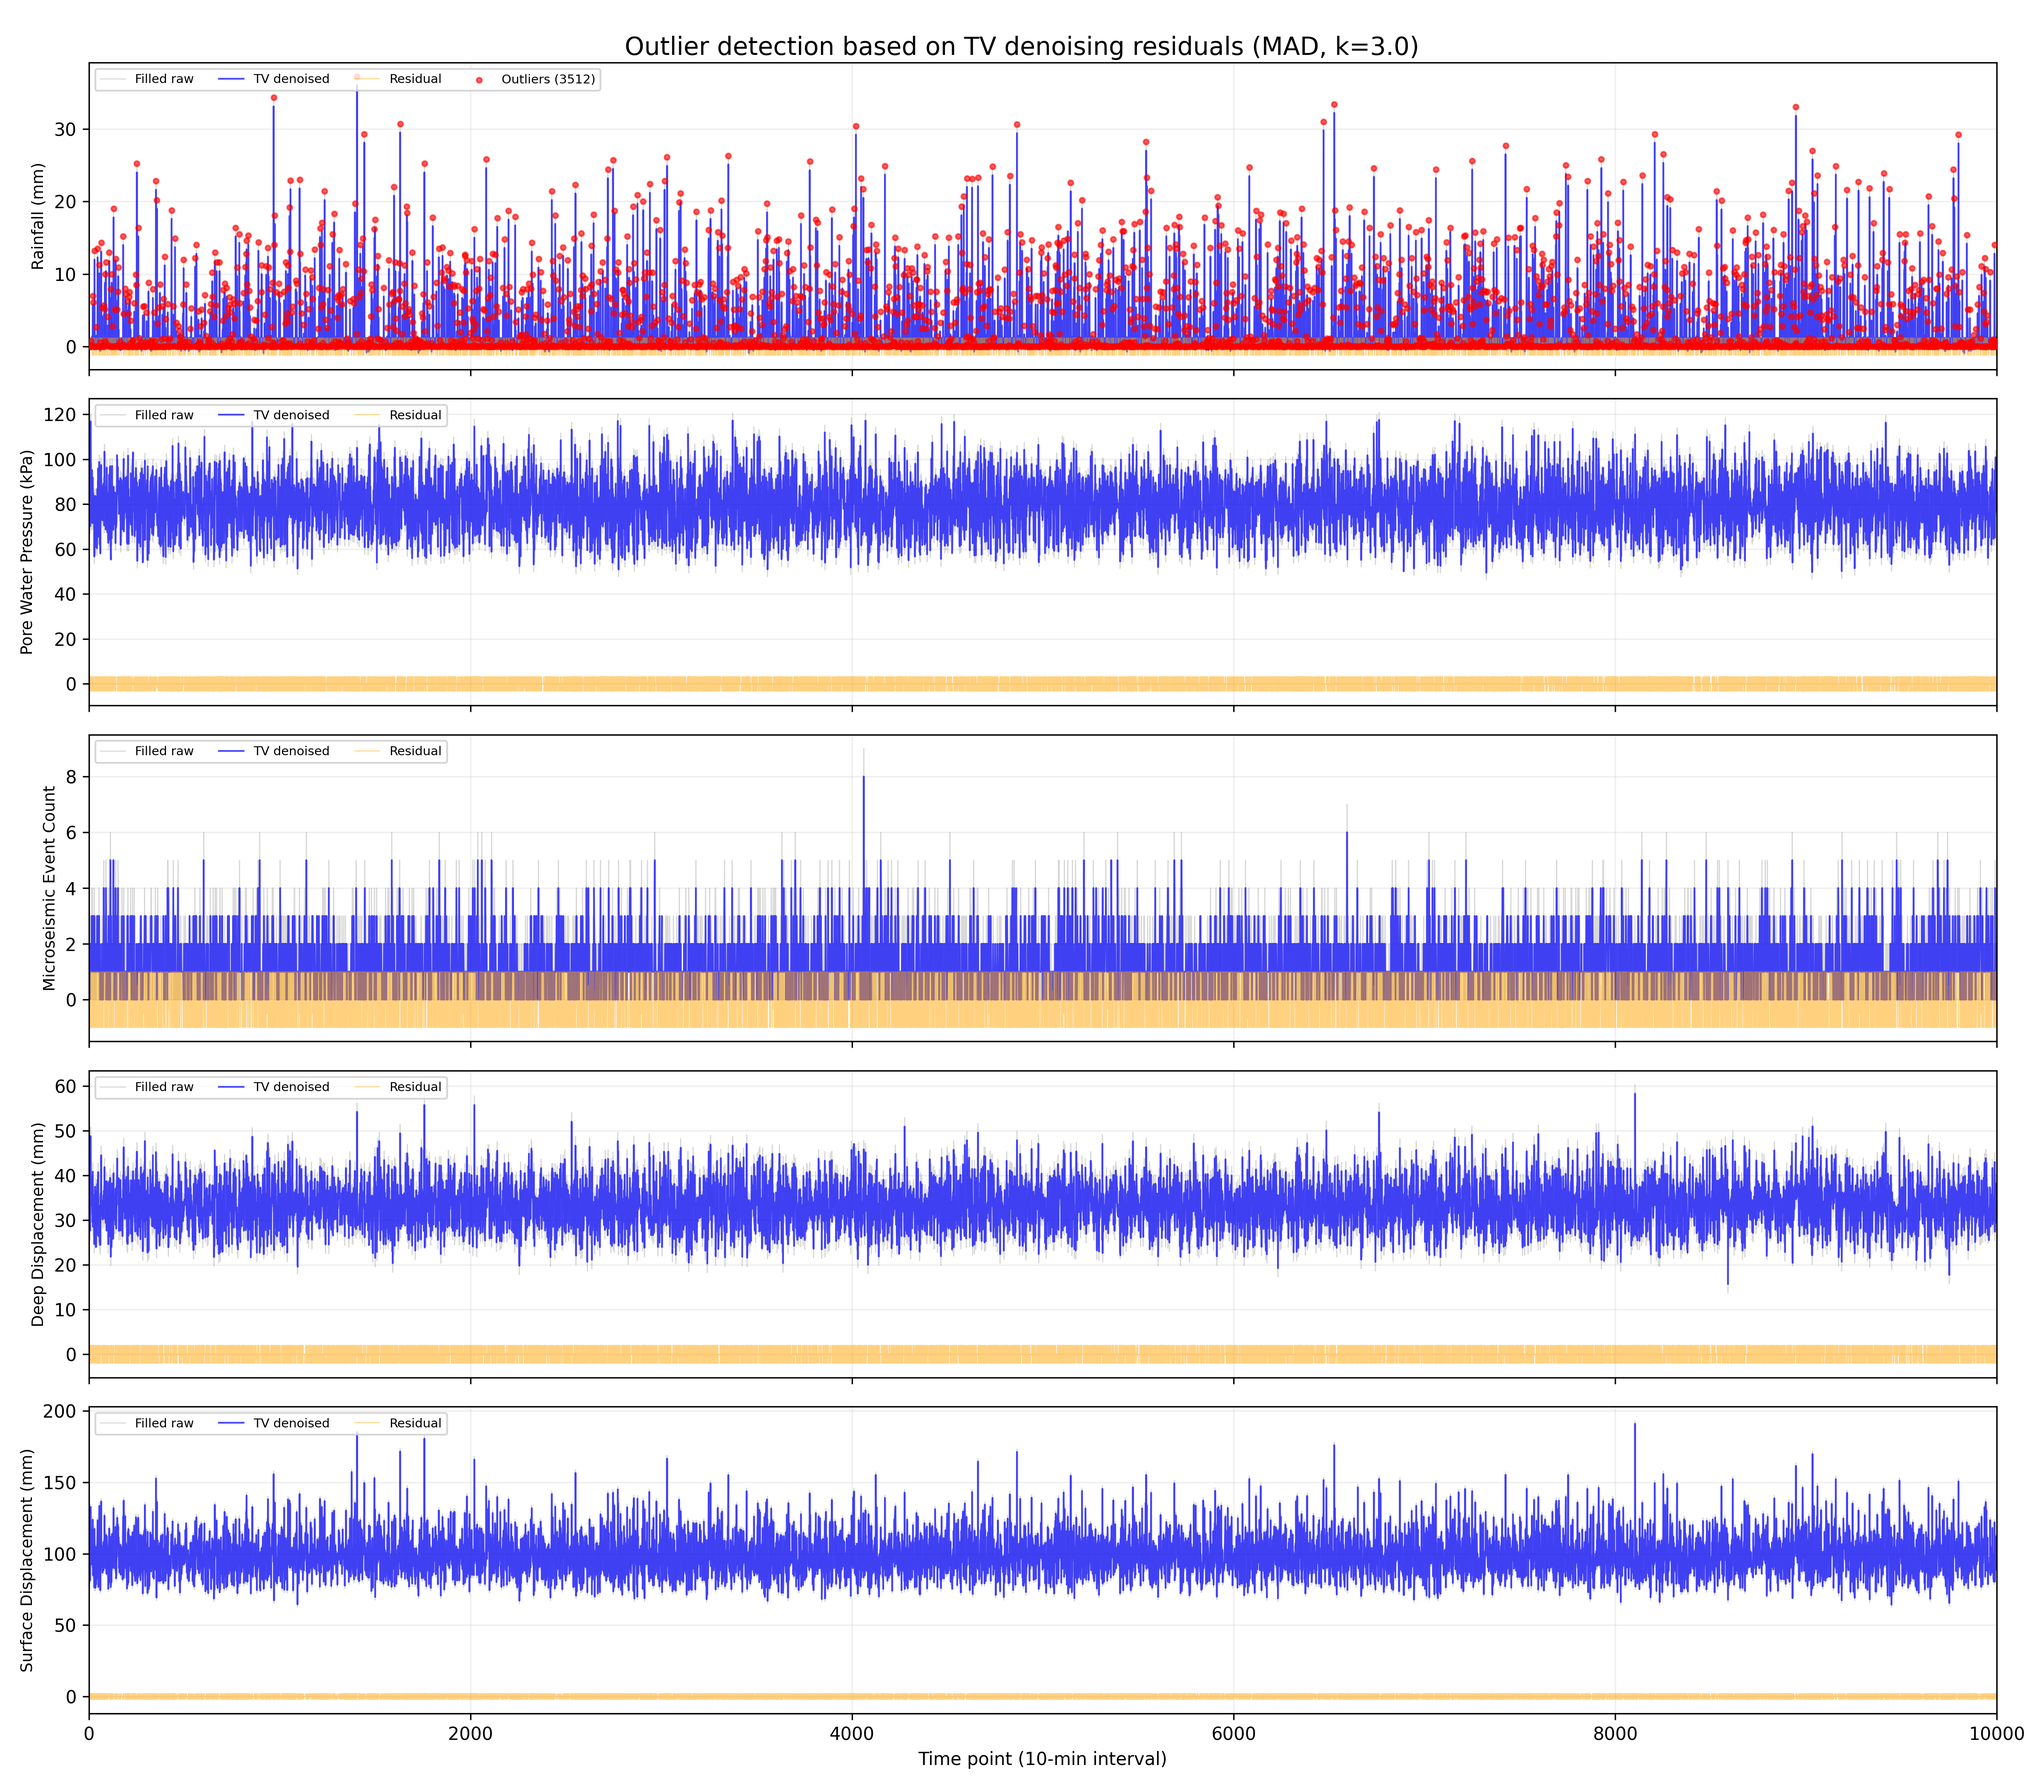
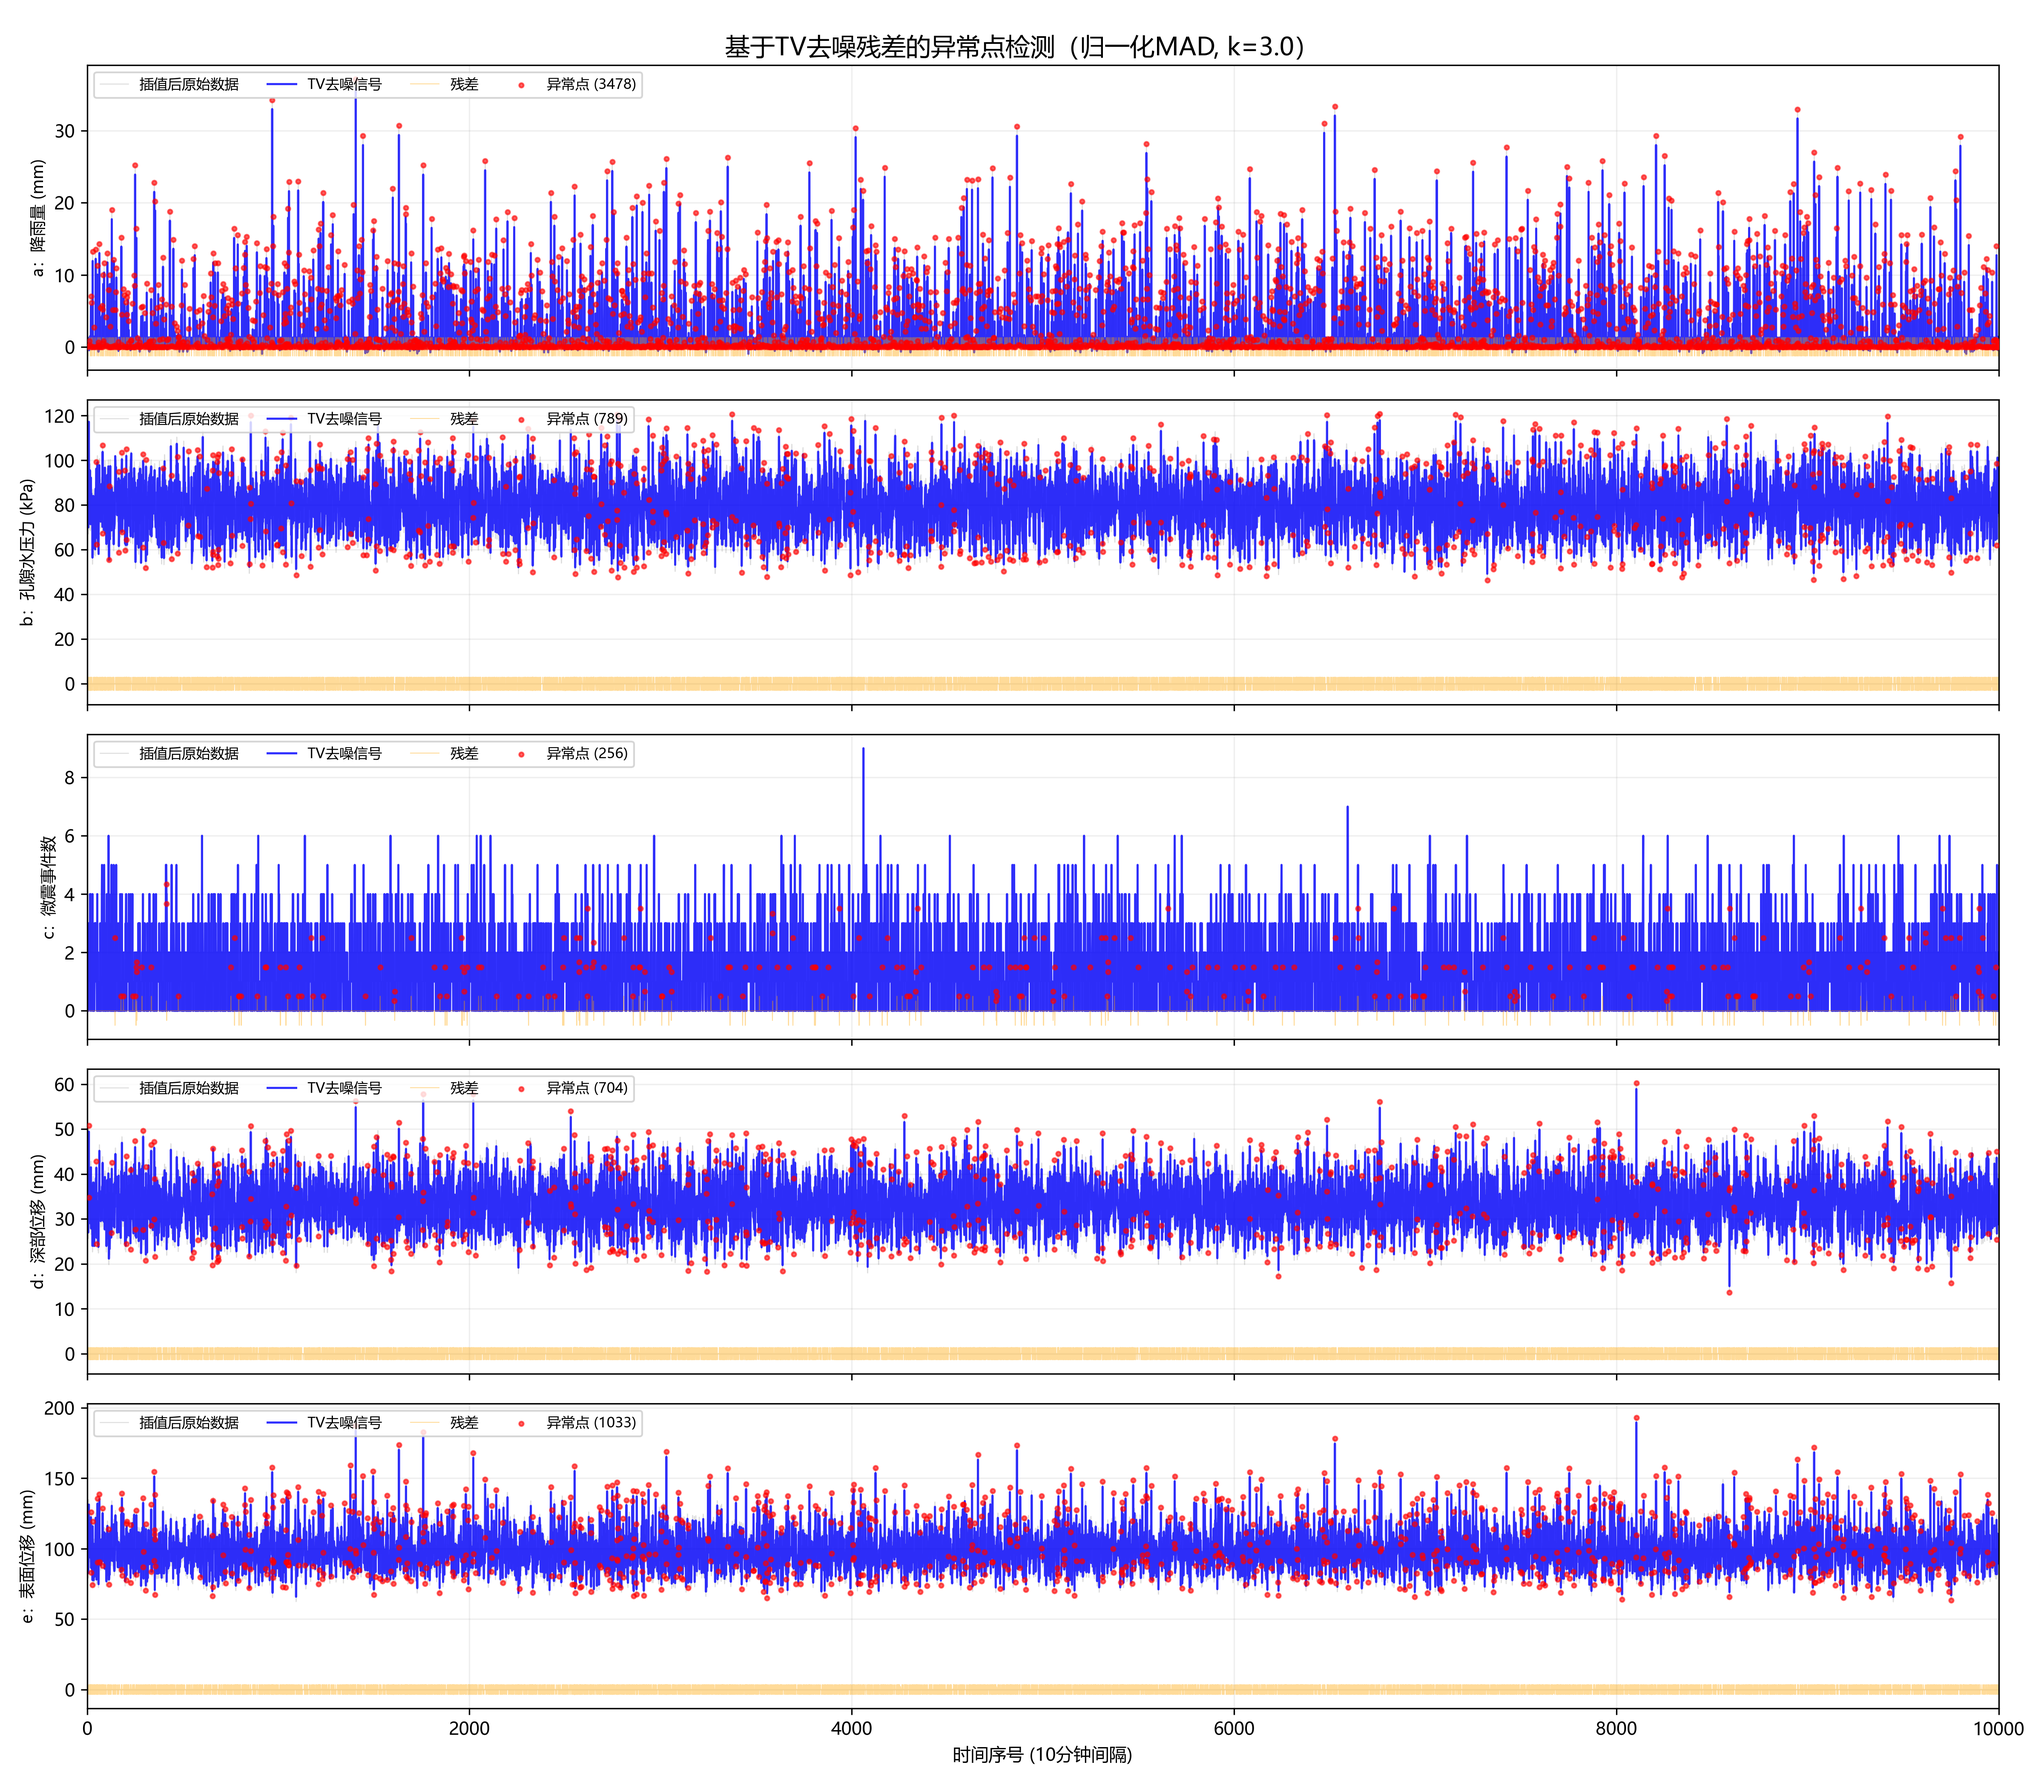
3.2: 优化异常检测 - 趋势变量用差分检测, λ自适应数据量级

diff --git a/Q3/3.2/3.2.py b/Q3/3.2/3.2.py
@@ -56,33 +56,60 @@ for key, series in raw_data.items():
     filled = filled.bfill().ffill().fillna(0)
     filled_data[key] = filled.values
 
-# ==================== 4. TV去噪 (不同变量lambda不同) ====================
-lambda_dict = {'a':0.3, 'b':0.8, 'c':0.2, 'd':0.5, 'e':0.5}
+# ==================== 4. TV去噪 ====================
+# 【改进1】lambda 按数据标准差缩放，保证平滑力度在所有变量上一致
+# 相对强度 relative_strength: a(降雨量) 脉冲强→大些, c(微震) 计数低→小, 其余适中
+relative_lambda = {'a': 0.08, 'b': 0.06, 'c': 0.04, 'd': 0.06, 'e': 0.06}
+data_std = {key: np.nanstd(raw_data[key]) for key in raw_data}
+print("各变量标准差:", {k: f"{v:.3f}" for k, v in data_std.items()})
+
 denoised_data = {}
 for key, y in filled_data.items():
-    y_den = tv_denoise_admm(y, lam=lambda_dict[key], max_iter=200)
-    if key == 'c':   # 微震事件数取整
+    # 实际lambda = 相对强度 × 数据标准差
+    lam = relative_lambda[key] * data_std[key]
+    y_den = tv_denoise_admm(y, lam=lam, max_iter=200)
+    if key == 'c':
         y_den = np.round(y_den).astype(int)
     denoised_data[key] = y_den
 
 # ==================== 5. 计算残差并检测异常 ====================
-def detect_outliers(residuals, k=3.0):
+def detect_outliers_scaled(residuals, data_std_val, k=3.0):
     """
-    基于MAD检测异常值
+    基于MAD检测异常值 (改进：用数据标准差归一化残差)
     residuals: 残差数组
-    k: 阈值倍数，通常3.0
-    返回布尔数组，True表示异常
+    data_std_val: 原始数据的标准差
+    k: 阈值倍数
     """
-    if len(residuals) == 0:
+    if len(residuals) == 0 or data_std_val == 0:
         return np.array([], dtype=bool)
-    median = np.median(residuals)
-    mad = np.median(np.abs(residuals - median))
+    # 关键改进：残差除以数据标准差，使阈值对所有变量尺度一致
+    normalized = residuals / data_std_val
+    median = np.median(normalized)
+    mad = np.median(np.abs(normalized - median))
     if mad == 0:
-        std = np.std(residuals)
-        threshold = k * std
+        threshold = k * np.std(normalized)
     else:
         threshold = k * mad
-    return np.abs(residuals - median) > threshold
+    return np.abs(normalized - median) > threshold
+
+def detect_outliers_by_diff(signal, k=4.0):
+    """
+    基于一阶差分（变化率）检测异常
+    对趋势性强的变量（孔隙水压力、位移）更有效
+    异常 = 相邻时间点间变化量异常大
+    """
+    diff = np.diff(signal)
+    # 用MAD检测差分序列的异常
+    median = np.median(diff)
+    mad = np.median(np.abs(diff - median))
+    if mad == 0:
+        mad = np.std(diff)
+    flags_diff = np.abs(diff - median) > k * mad
+    # 差分比原序列少1个点，对齐：某点异常若其前后差分任一异常
+    flags = np.zeros(len(signal), dtype=bool)
+    flags[:-1] |= flags_diff  # t→t+1的跳变标记t
+    flags[1:]  |= flags_diff  # 也标记t+1
+    return flags
 
 # 存储每个变量的异常标记
 outlier_flags = {}
@@ -93,28 +120,36 @@ for key in ['a','b','c','d','e']:
     raw_filled = filled_data[key]
     clean_signal = denoised_data[key]
     residuals = raw_filled - clean_signal
-    flags = detect_outliers(residuals, k=3.0)
+    # 对趋势性强的变量(b/d/e)使用差分检测，对波动性变量(a/c)使用残差检测
+    if key in ['b', 'd', 'e']:
+        flags = detect_outliers_by_diff(clean_signal, k=4.0)
+    else:
+        flags = detect_outliers_scaled(residuals, data_std[key], k=3.0)
     outlier_flags[key] = flags
-    outlier_counts[key] = np.sum(flags)
+    outlier_counts[key] = int(np.sum(flags))
     total_length = len(flags)
 
 # ==================== 6. 输出表3.1 ====================
 print("="*60)
 print("表3.1 训练集单变量异常点检出结果")
 print("-"*60)
-print(f"{'数据集变量':<20} {'异常点数量':>10}")
+print(f"{'数据集变量':<20} {'异常点数量':>10}  {'占比':>8}")
 for key in ['a','b','c','d','e']:
     var_name = {'a':'a：降雨量','b':'b：孔隙水压力','c':'c：微震事件数','d':'d：深部位移','e':'e：表面位移'}[key]
-    print(f"{var_name:<20} {outlier_counts[key]:>10}")
-print(f"{'总数':<20} {sum(outlier_counts.values()):>10}")
+    pct = outlier_counts[key] / total_length * 100
+    print(f"{var_name:<20} {outlier_counts[key]:>10}  {pct:>7.2f}%")
+total_count = sum(outlier_counts.values())
+total_pct = total_count / (total_length * 5) * 100
+print(f"{'总数':<20} {total_count:>10}  {total_pct:>7.2f}%")
 print("="*60)
 
 # 保存表3.1到Excel
 table3_1_data = []
 for key in ['a','b','c','d','e']:
     var_name = {'a':'a：降雨量','b':'b：孔隙水压力','c':'c：微震事件数','d':'d：深部位移','e':'e：表面位移'}[key]
-    table3_1_data.append({'数据集变量': var_name, '异常点数量': int(outlier_counts[key])})
-table3_1_data.append({'数据集变量': '总数', '异常点数量': int(sum(outlier_counts.values()))})
+    pct = outlier_counts[key] / total_length * 100
+    table3_1_data.append({'数据集变量': var_name, '异常点数量': outlier_counts[key], '占比(%)': round(pct, 2)})
+table3_1_data.append({'数据集变量': '总数', '异常点数量': total_count, '占比(%)': round(total_pct, 2)})
 df_table3_1 = pd.DataFrame(table3_1_data)
 table3_1_path = os.path.join(script_dir, "table3.1_outlier_counts.xlsx")
 df_table3_1.to_excel(table3_1_path, index=False)
@@ -126,7 +161,7 @@ for t in range(total_length):
     abnormal_vars = [key for key in ['a','b','c','d','e'] if outlier_flags[key][t]]
     if len(abnormal_vars) >= 2:
         var_str = ''.join(sorted(abnormal_vars))
-        common_outliers[t+1] = var_str   # 序号从1开始
+        common_outliers[t+1] = var_str
 
 # ==================== 8. 输出表3.2 (前20行示例) ====================
 print("\n表3.2 训练集多变量共同异常点变量清单")
@@ -147,12 +182,15 @@ df_common.to_excel(output_path, index=False)
 print(f"\n完整表3.2已保存至 {output_path}")
 
 # ==================== 9. 绘图展示五变量残差与异常点 ====================
-var_labels = {
-    'a': 'Rainfall (mm)',
-    'b': 'Pore Water Pressure (kPa)',
-    'c': 'Microseismic Event Count',
-    'd': 'Deep Displacement (mm)',
-    'e': 'Surface Displacement (mm)'
+plt.rcParams['font.sans-serif'] = ['Microsoft YaHei', 'SimHei', 'DejaVu Sans']
+plt.rcParams['axes.unicode_minus'] = False
+
+var_labels_cn = {
+    'a': 'a：降雨量 (mm)',
+    'b': 'b：孔隙水压力 (kPa)',
+    'c': 'c：微震事件数',
+    'd': 'd：深部位移 (mm)',
+    'e': 'e：表面位移 (mm)'
 }
 
 fig, axes = plt.subplots(5, 1, figsize=(16, 14), sharex=True)
@@ -166,23 +204,23 @@ for idx, key in enumerate(['a','b','c','d','e']):
     flags = outlier_flags[key]
 
     # 绘制原始数据、去噪信号、残差
-    ax.plot(t, raw_filled, 'gray', alpha=0.3, linewidth=0.6, label='Filled raw')
-    ax.plot(t, clean_signal, 'b-', linewidth=1.0, alpha=0.7, label='TV denoised')
-    ax.plot(t, residuals, 'orange', linewidth=0.5, alpha=0.5, label='Residual')
+    ax.plot(t, raw_filled, 'gray', alpha=0.25, linewidth=0.6, label='插值后原始数据')
+    ax.plot(t, clean_signal, 'b-', linewidth=1.2, alpha=0.8, label='TV去噪信号')
+    ax.plot(t, residuals, 'orange', linewidth=0.5, alpha=0.4, label='残差')
 
     # 用红色散点标记异常点
     outlier_idx = np.where(flags)[0]
     if len(outlier_idx) > 0:
         ax.scatter(outlier_idx, raw_filled[outlier_idx],
-                   color='red', s=8, alpha=0.6, label=f'Outliers ({len(outlier_idx)})', zorder=5)
+                   color='red', s=6, alpha=0.6, label=f'异常点 ({len(outlier_idx)})', zorder=5)
 
-    ax.set_ylabel(var_labels[key], fontsize=9)
-    ax.legend(loc='upper left', fontsize=7, ncol=4)
+    ax.set_ylabel(var_labels_cn[key], fontsize=9)
+    ax.legend(loc='upper left', fontsize=8, ncol=4)
     ax.grid(alpha=0.2)
     ax.set_xlim(0, total_length)
 
-axes[-1].set_xlabel('Time point (10-min interval)')
-plt.suptitle('Outlier detection based on TV denoising residuals (MAD, k=3.0)', fontsize=14)
+axes[-1].set_xlabel('时间序号 (10分钟间隔)')
+plt.suptitle('基于TV去噪残差的异常点检测（归一化MAD, k=3.0）', fontsize=14)
 plt.tight_layout()
 plot_path = os.path.join(script_dir, "outlier_detection_results.png")
 plt.savefig(plot_path, dpi=300)
